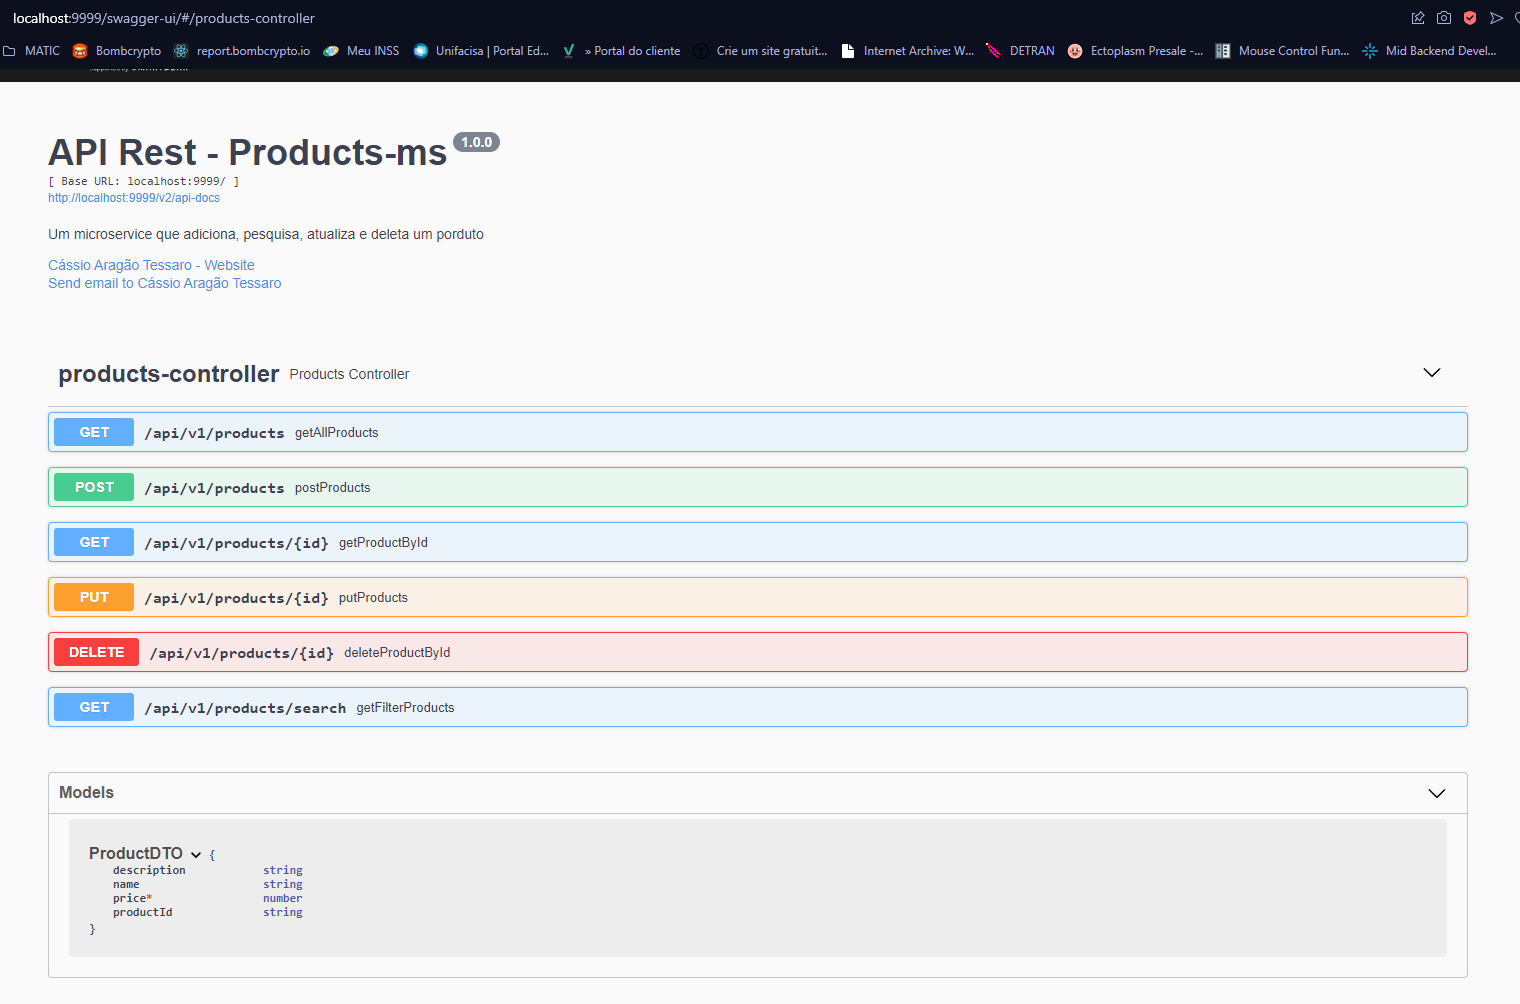
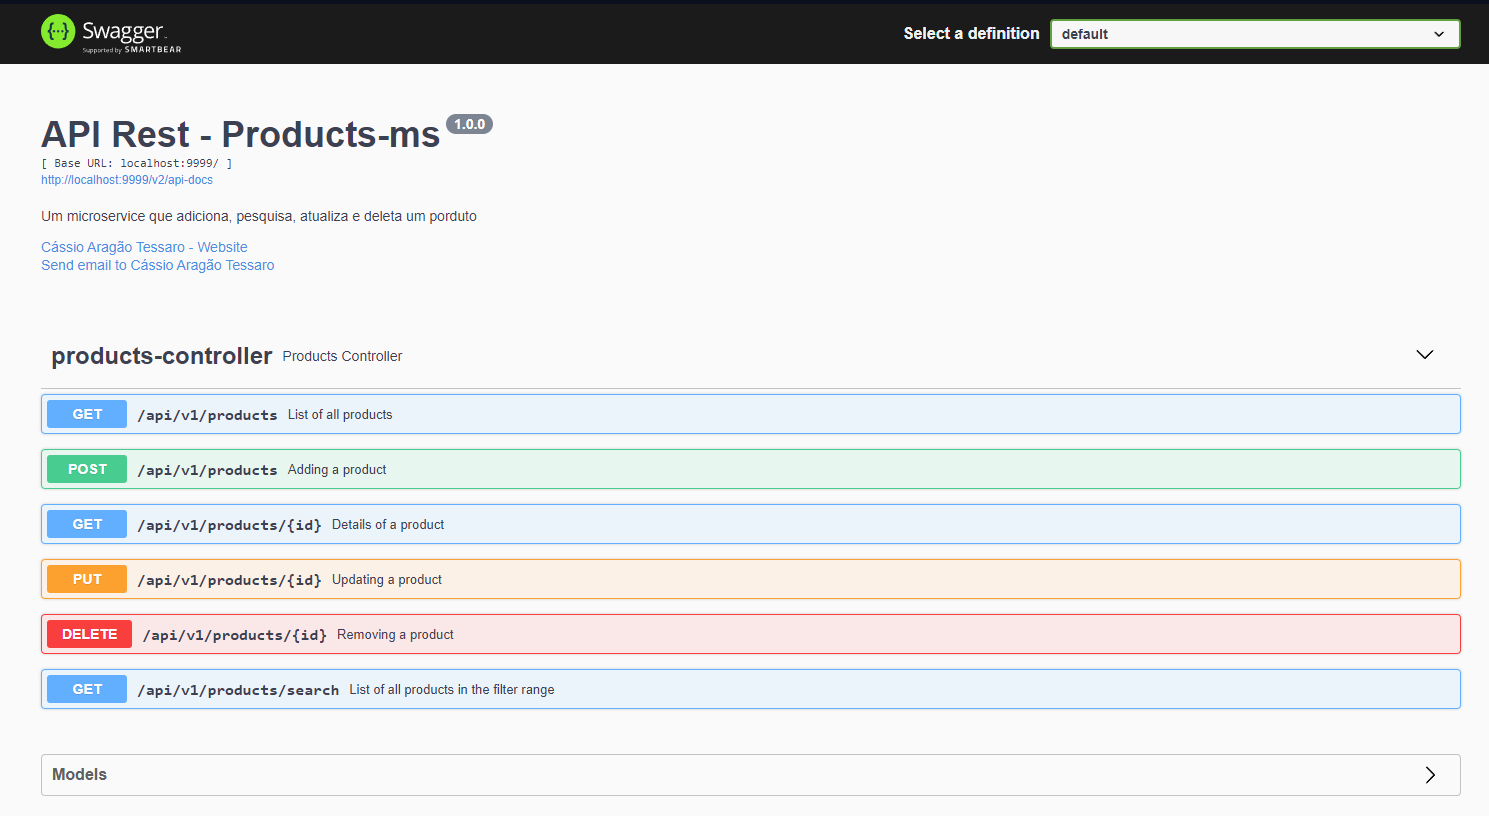
add info ao swagger

diff --git a/src/main/java/br/com/tessaro/controller/ProductsController.java b/src/main/java/br/com/tessaro/controller/ProductsController.java
@@ -24,6 +24,7 @@ import org.springframework.web.bind.annotation.RestController;
 
 import br.com.tessaro.model.dto.ProductDTO;
 import br.com.tessaro.service.impl.ProductsServiceImpl;
+import io.swagger.annotations.ApiOperation;
 
 @RestController
 @RequestMapping("api/v1/products")
@@ -35,6 +36,7 @@ public class ProductsController {
 	private ProductsServiceImpl productsService;
 	
 	@PostMapping
+	@ApiOperation(value = "Adding a product")
 	@CacheEvict(value = "retrieveExcahngeValueCache", allEntries = true)
 	public ResponseEntity<ProductDTO> postProducts (@Valid @RequestBody ProductDTO productDtoRequest) {
 		logger.info("CONTROLLER - Using the postProduct method");
@@ -43,6 +45,7 @@ public class ProductsController {
 	}
 	
 	@PutMapping("/{id}")
+	@ApiOperation(value = "Updating a product")
 	@CacheEvict(value = "retrieveExcahngeValueCache", allEntries = true)
 	public ResponseEntity<ProductDTO> putProducts (@PathVariable String id , @Valid @RequestBody ProductDTO productDto) {
 		logger.info("CONTROLLER - Using the putProducts method");
@@ -51,6 +54,7 @@ public class ProductsController {
 	}
 	
 	@GetMapping
+	@ApiOperation(value = "List of all products")
 	@Cacheable(value="retrieveExcahngeValueCache")
 	public ResponseEntity<List<ProductDTO>> getAllProducts () {
 		logger.info("CONTROLLER - Using the getAllProducts method");
@@ -59,6 +63,7 @@ public class ProductsController {
 	}
 
 	@GetMapping("/{id}")
+	@ApiOperation(value = "Details of a product")
 	@Cacheable(value="retrieveExcahngeValueCache")
 	public ResponseEntity<ProductDTO> getProductById (@PathVariable String id) {
 		logger.info("CONTROLLER - Using the getProductById method");
@@ -67,6 +72,7 @@ public class ProductsController {
 	}
 	
 	@GetMapping("/search")
+	@ApiOperation(value = "List of all products in the filter range")
 	@Cacheable(value="retrieveExcahngeValueCache")
 	public ResponseEntity<List<ProductDTO>> getFilterProducts (
 			@RequestParam(required = false, value = "min_price") BigDecimal minPrice,
@@ -78,6 +84,7 @@ public class ProductsController {
 	}
 	
 	@DeleteMapping("/{id}")
+	@ApiOperation(value = "Removing a product")
 	@CacheEvict(value = "retrieveExcahngeValueCache", allEntries = true)
 	public ResponseEntity<?> deleteProductById (@PathVariable String id) {
 		logger.info("CONTROLLER - Using the deleteProductById method");
